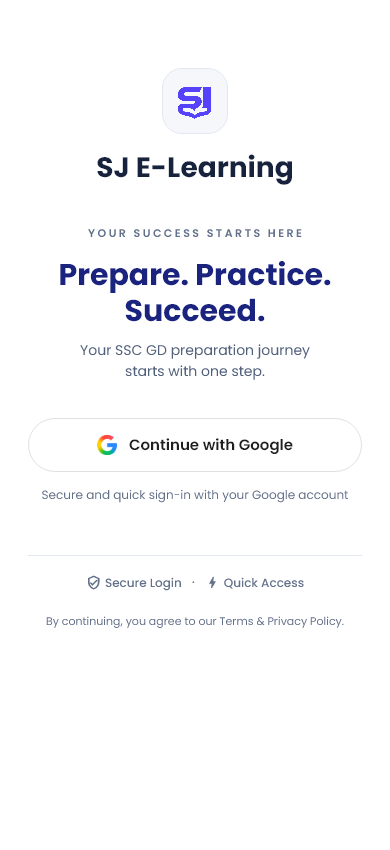
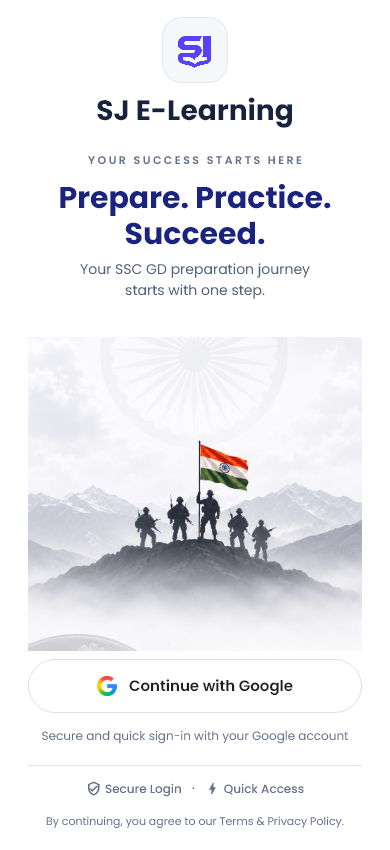
Reveal flag art on login screen

diff --git a/lib/features/auth/presentation/auth_screens.dart b/lib/features/auth/presentation/auth_screens.dart
@@ -57,25 +57,6 @@ class _LoginState extends ConsumerState<LoginScreen> {
         backgroundColor: isDark ? const Color(0xFF10192B) : Colors.white,
         body: Stack(
           children: [
-            // Background image — transparent, clipped to hide red corners
-            Positioned.fill(
-              child: ClipRect(
-                child: OverflowBox(
-                  alignment: Alignment.center,
-                  maxWidth: MediaQuery.sizeOf(context).width * 1.15,
-                  maxHeight: screenHeight * 1.15,
-                  child: Opacity(
-                    opacity: isDark ? 0.18 : 0.22,
-                    child: Image.asset(
-                      'assets/images/image.png',
-                      fit: BoxFit.cover,
-                      errorBuilder: (_, __, ___) => const SizedBox.shrink(),
-                    ),
-                  ),
-                ),
-              ),
-            ),
-
             // Main content
             SafeArea(
               child: LayoutBuilder(
@@ -90,7 +71,9 @@ class _LoginState extends ConsumerState<LoginScreen> {
                             padding: const EdgeInsets.symmetric(horizontal: 28),
                             child: Column(
                               children: [
-                                SizedBox(height: screenHeight * 0.08),
+                                SizedBox(
+                                  height: (screenHeight * 0.02).clamp(12, 24),
+                                ),
 
                                 // SJ Logo — kept unchanged
                                 Container(
@@ -108,7 +91,7 @@ class _LoginState extends ConsumerState<LoginScreen> {
                                   ),
                                   child: const SJMark(size: 48),
                                 ),
-                                const SizedBox(height: 16),
+                                const SizedBox(height: 10),
 
                                 // App name — kept unchanged
                                 Text(
@@ -117,7 +100,7 @@ class _LoginState extends ConsumerState<LoginScreen> {
                                     fontWeight: FontWeight.w700,
                                   ),
                                 ),
-                                const SizedBox(height: 40),
+                                const SizedBox(height: 24),
 
                                 // Tagline label
                                 Text(
@@ -129,7 +112,7 @@ class _LoginState extends ConsumerState<LoginScreen> {
                                     color: context.tokens.muted,
                                   ),
                                 ),
-                                const SizedBox(height: 14),
+                                const SizedBox(height: 10),
 
                                 // Headline
                                 Arrive(
@@ -146,7 +129,7 @@ class _LoginState extends ConsumerState<LoginScreen> {
                                     ),
                                   ),
                                 ),
-                                const SizedBox(height: 12),
+                                const SizedBox(height: 8),
 
                                 // Subtitle
                                 Text(
@@ -157,7 +140,24 @@ class _LoginState extends ConsumerState<LoginScreen> {
                                     height: 1.5,
                                   ),
                                 ),
-                                const SizedBox(height: 36),
+                                const Spacer(),
+                                SizedBox(
+                                  width: double.infinity,
+                                  height: (screenHeight * 0.37).clamp(220, 320),
+                                  child: ClipRect(
+                                    child: Transform.scale(
+                                      scale: 1.08,
+                                      child: Image.asset(
+                                        'assets/images/image.png',
+                                        fit: BoxFit.cover,
+                                        alignment: Alignment.center,
+                                        errorBuilder: (_, __, ___) =>
+                                            const SizedBox.shrink(),
+                                      ),
+                                    ),
+                                  ),
+                                ),
+                                const SizedBox(height: 8),
 
                                 // Google Sign In Button
                                 SizedBox(
@@ -254,12 +254,11 @@ class _LoginState extends ConsumerState<LoginScreen> {
                                     ),
                                   ),
 
-                                SizedBox(height: screenHeight * 0.06),
-                                const Spacer(),
+                                const SizedBox(height: 20),
 
                                 // Divider line
                                 Divider(color: context.tokens.line),
-                                const SizedBox(height: 16),
+                                const SizedBox(height: 12),
 
                                 // Trust badges
                                 Row(
@@ -304,7 +303,7 @@ class _LoginState extends ConsumerState<LoginScreen> {
                                     ),
                                   ],
                                 ),
-                                const SizedBox(height: 20),
+                                const SizedBox(height: 14),
 
                                 // Footer
                                 Text(
@@ -315,7 +314,7 @@ class _LoginState extends ConsumerState<LoginScreen> {
                                     color: context.tokens.muted,
                                   ),
                                 ),
-                                const SizedBox(height: 32),
+                                const SizedBox(height: 20),
                               ],
                             ),
                           ),

diff --git a/test/portraits_motion_test.dart b/test/portraits_motion_test.dart
@@ -76,6 +76,7 @@ void main() {
         for (final path in [
           'assets/brand/sj-logo-source.png',
           'assets/brand/google-g.png',
+          'assets/images/image.png',
           for (final id in ['curie', 'raman', 'einstein', 'explorer'])
             'assets/avatars/$id.webp',
         ]) {
